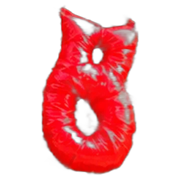
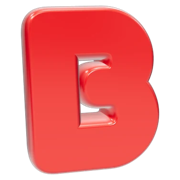
Enseigne : lettres ballons rendues en vraie 3D, sans halo de détourage
Rendu Three.js (verre brillant, reflets d'intérieur) dans outils/lettres-3d, aux couleurs de l'enseigne réelle.
L'image de partage et l'icône du site reprennent les nouvelles lettres.

Claude-Session: https://claude.ai/code/session_01ENEjv6HRpKHHDi8H6GxpkE

diff --git a/index.html b/index.html
@@ -66,8 +66,8 @@
     <h1 class="sr" data-en="Chez Bobette, neighbourhood laundromat in Plateau-Mont-Royal">Chez Bobette, buanderie de quartier du Plateau-Mont-Royal</h1>
     <!-- L'enseigne : onze lettres ballons suspendues, une image par lettre (outils/preparer_lettres.py). js/mur.js les fait se balancer. -->
     <div class="guirlande" id="guirlande" aria-hidden="true">
-      <div class="mot"><span class="lettre"><img src="assets/img/e5dcd0ee52.webp" width="251" height="360" alt="" fetchpriority="high" decoding="async"></span><span class="lettre"><img src="assets/img/39b3e6a584.webp" width="237" height="360" alt="" fetchpriority="high" decoding="async"></span><span class="lettre"><img src="assets/img/0323713e79.webp" width="201" height="360" alt="" fetchpriority="high" decoding="async"></span><span class="lettre"><img src="assets/img/db650aea3f.webp" width="232" height="360" alt="" fetchpriority="high" decoding="async"></span></div>
-      <div class="mot"><span class="lettre"><img src="assets/img/6b493f6e95.webp" width="199" height="360" alt="" fetchpriority="high" decoding="async"></span><span class="lettre"><img src="assets/img/7e44f36cc0.webp" width="195" height="360" alt="" fetchpriority="high" decoding="async"></span><span class="lettre"><img src="assets/img/347cb971e7.webp" width="153" height="360" alt="" fetchpriority="high" decoding="async"></span><span class="lettre"><img src="assets/img/5c08a3a473.webp" width="183" height="360" alt="" fetchpriority="high" decoding="async"></span><span class="lettre"><img src="assets/img/51cb806447.webp" width="198" height="360" alt="" fetchpriority="high" decoding="async"></span><span class="lettre"><img src="assets/img/51df251376.webp" width="195" height="360" alt="" fetchpriority="high" decoding="async"></span><span class="lettre"><img src="assets/img/d428a19c2d.webp" width="184" height="360" alt="" fetchpriority="high" decoding="async"></span></div>
+      <div class="mot"><span class="lettre"><img src="assets/img/lettres/l00.webp" width="318" height="360" alt="" fetchpriority="high" decoding="async"></span><span class="lettre"><img src="assets/img/lettres/l01.webp" width="313" height="360" alt="" fetchpriority="high" decoding="async"></span><span class="lettre"><img src="assets/img/lettres/l02.webp" width="292" height="360" alt="" fetchpriority="high" decoding="async"></span><span class="lettre"><img src="assets/img/lettres/l03.webp" width="296" height="360" alt="" fetchpriority="high" decoding="async"></span></div>
+      <div class="mot"><span class="lettre"><img src="assets/img/lettres/l04.webp" width="297" height="360" alt="" fetchpriority="high" decoding="async"></span><span class="lettre"><img src="assets/img/lettres/l05.webp" width="348" height="360" alt="" fetchpriority="high" decoding="async"></span><span class="lettre"><img src="assets/img/lettres/l06.webp" width="297" height="360" alt="" fetchpriority="high" decoding="async"></span><span class="lettre"><img src="assets/img/lettres/l07.webp" width="294" height="360" alt="" fetchpriority="high" decoding="async"></span><span class="lettre"><img src="assets/img/lettres/l08.webp" width="322" height="360" alt="" fetchpriority="high" decoding="async"></span><span class="lettre"><img src="assets/img/lettres/l09.webp" width="320" height="360" alt="" fetchpriority="high" decoding="async"></span><span class="lettre"><img src="assets/img/lettres/l10.webp" width="294" height="360" alt="" fetchpriority="high" decoding="async"></span></div>
     </div>
     <button class="langue" type="button" lang="en" aria-label="Switch to English">EN</button>
     <div class="plaque enseigne" data-etat="ouvert">

diff --git a/outils/lettres-3d/rendu.html b/outils/lettres-3d/rendu.html
@@ -1,0 +1,40 @@
+<!doctype html><html><head><meta charset="utf-8"><style>html,body{margin:0;background:transparent}</style>
+<script type="importmap">{"imports":{"three":"./node_modules/three/build/three.module.js","three/addons/":"./node_modules/three/examples/jsm/"}}</script></head>
+<body><script type="module">
+import * as THREE from "three";
+import { TTFLoader } from "three/addons/loaders/TTFLoader.js";
+import { Font } from "three/addons/loaders/FontLoader.js";
+import { TextGeometry } from "three/addons/geometries/TextGeometry.js";
+import { RoomEnvironment } from "three/addons/environments/RoomEnvironment.js";
+const P = new URLSearchParams(location.search);
+const W = +P.get("w") || 512, H = +P.get("h") || 640;
+const renderer = new THREE.WebGLRenderer({ antialias: true, alpha: true, preserveDrawingBuffer: true });
+renderer.setSize(W, H); renderer.setPixelRatio(1);
+renderer.toneMapping = THREE.ACESFilmicToneMapping; renderer.toneMappingExposure = 1.05;
+renderer.outputColorSpace = THREE.SRGBColorSpace;
+document.body.appendChild(renderer.domElement);
+const scene = new THREE.Scene();
+const pm = new THREE.PMREMGenerator(renderer);
+scene.environment = pm.fromScene(new RoomEnvironment(), 0.04).texture;
+const cle = new THREE.DirectionalLight(0xffffff, 1.6); cle.position.set(-3, 4, 6); scene.add(cle);
+const camera = new THREE.PerspectiveCamera(30, W / H, 0.1, 100);
+window.rendre = async (lettre, couleur, yaw, roll) => {
+  const buf = await (await fetch("fredoka.woff")).arrayBuffer();
+  const font = new Font(new TTFLoader().parse(buf));
+  scene.children.filter(o => o.isMesh).forEach(o => scene.remove(o));
+  const g = new TextGeometry(lettre, { font, size: 1, depth: 0.06, curveSegments: 28,
+    bevelEnabled: true, bevelThickness: 0.2, bevelSize: 0.05, bevelSegments: 18 });
+  g.computeBoundingBox(); g.center(); g.computeVertexNormals();
+  const m = new THREE.MeshPhysicalMaterial({ color: new THREE.Color(couleur), metalness: 0.35, roughness: 0.2,
+    clearcoat: 1, clearcoatRoughness: 0.06, iridescence: 0.15 });
+  const mesh = new THREE.Mesh(g, m);
+  mesh.rotation.set(0.08, yaw, roll);
+  scene.add(mesh);
+  const b = new THREE.Box3().setFromObject(mesh), s = b.getSize(new THREE.Vector3());
+  const d = Math.max(s.y / (2 * Math.tan(THREE.MathUtils.degToRad(15))), s.x / (2 * Math.tan(THREE.MathUtils.degToRad(15)) * (W / H))) * 1.12;
+  camera.position.set(0, 0, d); camera.lookAt(0, 0, 0);
+  renderer.render(scene, camera);
+  return renderer.domElement.toDataURL("image/png");
+};
+window.pret = true;
+</script></body></html>

diff --git a/outils/lettres-3d/rendre.py b/outils/lettres-3d/rendre.py
@@ -1,0 +1,15 @@
+import asyncio, base64, sys
+from playwright.async_api import async_playwright
+L=[("C","#209de4",.25,.05),("H","#ed131a",-.2,-.04),("E","#f1b009",.18,.03),("Z","#2bc83c",-.22,-.05),
+   ("B","#f0141e",.2,.04),("O","#f1b10b",-.18,-.03),("B","#1d9ce5",.22,.05),("E","#e41a27",-.2,-.04),("T","#218ed9",.18,.03),("T","#21ad3b",-.2,-.05),("E","#e6a80d",.22,.04)]
+OUT=sys.argv[1]
+async def main():
+    async with async_playwright() as p:
+        b=await p.chromium.launch(args=["--use-gl=angle","--use-angle=swiftshader","--enable-unsafe-swiftshader"])
+        pg=await b.new_page(); errs=[]; pg.on('pageerror',lambda e:errs.append(str(e))); pg.on('console',lambda m: errs.append(m.text) if m.type=='error' else None)
+        await pg.goto('http://localhost:8100/rendu.html?w=600&h=800'); await pg.wait_for_function('window.pret',timeout=20000)
+        for i,(l,c,y,r) in enumerate(L):
+            d=await pg.evaluate(f"rendre('{l}','{c}',{y},{r})")
+            open(f'{OUT}/l{i:02d}.png','wb').write(base64.b64decode(d.split(',')[1]))
+        print('erreurs',errs[:3]); await b.close()
+asyncio.run(main())
